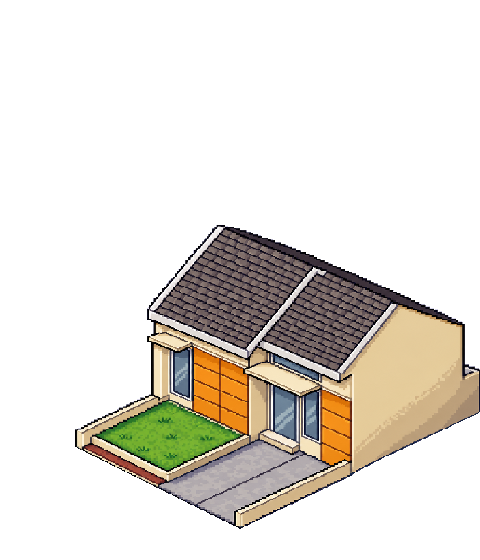
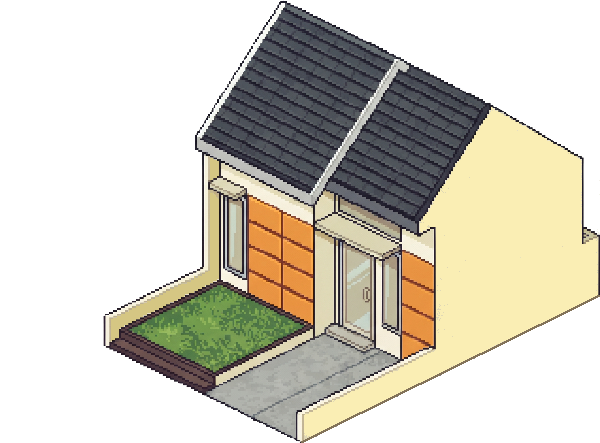
update terbaru

diff --git a/resources/js/my-ppmt/renderers/building-renderer.js b/resources/js/my-ppmt/renderers/building-renderer.js
@@ -14,28 +14,28 @@ window.MyPpmtModules.BuildingRenderer = (() => {
 
     const customSprites = new Map();
 
-    // Anchor pixel pada gambar PNG 480x560 (acuan awal 240x280 dikalikan 2x)
+    // Anchor pixel pada gambar PNG 600x443
     const SPRITE_SPECS = {
         '2x3-fl-left': {
             url: '/images/my-ppmt/house-2x3-fl-left.png',
-            anchorX: 240,
-            anchorY: 528,
-            leftX: 76,
-            rightX: 480
+            anchorX: 304,
+            anchorY: 441,
+            leftX: 0,
+            rightX: 490
         },
         '2x3-fl-right': {
             url: '/images/my-ppmt/house-2x3-fl-right.png',
-            anchorX: 240,
-            anchorY: 528,
-            leftX: 76,
-            rightX: 480
+            anchorX: 300,
+            anchorY: 440,
+            leftX: 0,
+            rightX: 496
         },
         '2x3-fr-left': {
             url: '/images/my-ppmt/house-2x3-fr-left.png',
-            anchorX: 240,
-            anchorY: 528,
-            leftX: 76,
-            rightX: 480
+            anchorX: 300,
+            anchorY: 439,
+            leftX: 0,
+            rightX: 496
         },
         '2x3-fr-right': {
             url: '/images/my-ppmt/house-2x3-fr-right.png',
@@ -43,6 +43,34 @@ window.MyPpmtModules.BuildingRenderer = (() => {
             anchorY: 528,
             leftX: 76,
             rightX: 480
+        },
+        '2x3-bl-left': {
+            url: '/images/my-ppmt/house-2x3-bl-left.png',
+            anchorX: 300,
+            anchorY: 439,
+            leftX: 4,
+            rightX: 508
+        },
+        '2x3-bl-right': {
+            url: '/images/my-ppmt/house-2x3-bl-right.png',
+            anchorX: 300,
+            anchorY: 439,
+            leftX: 4,
+            rightX: 508
+        },
+        '2x3-br-left': {
+            url: '/images/my-ppmt/house-2x3-br-left.png',
+            anchorX: 290,
+            anchorY: 443,
+            leftX: 4,
+            rightX: 508
+        },
+        '2x3-br-right': {
+            url: '/images/my-ppmt/house-2x3-br-right.png',
+            anchorX: 193,
+            anchorY: 440,
+            leftX: 4,
+            rightX: 508
         }
     };
 
@@ -121,6 +149,16 @@ window.MyPpmtModules.BuildingRenderer = (() => {
                 `2x3-fl-${carportSide}`,
                 '2x3-fr-left',
                 '2x3-fr-right'
+            ]);
+            return entry ? { ...entry, flipX: false } : null;
+        }
+
+        // Tampak belakang di orientasi ini memakai '2x3-br-right' dan '2x3-br-left'
+        if (effectiveFacing === 2 || effectiveFacing === 3) {
+            const entry = pickLoadedSprite([
+                `2x3-br-${carportSide}`,
+                '2x3-br-right',
+                '2x3-br-left'
             ]);
             return entry ? { ...entry, flipX: false } : null;
         }
@@ -282,7 +320,7 @@ window.MyPpmtModules.BuildingRenderer = (() => {
                 const wt0 = { x: t11.x + (t10.x - t11.x) * f0, y: t11.y + (t10.y - t11.y) * f0 + 2.5 };
                 const wt1 = { x: t11.x + (t10.x - t11.x) * f1, y: t11.y + (t10.y - t11.y) * f1 + 2.5 };
                 const wb0 = { x: mid11.x + (mid10.x - mid11.x) * f0, y: mid11.y + (mid10.y - mid11.y) * f0 - 2.0 };
-                const wb1 = { x: mid11.x + (mid10.x - mid11.x) * f1, y: mid11.y + (mid10.y - mid11.y) * f1 - 2.0 };
+                const wb1 = { x: mid11.x + (mid10.x - mid11.x) * f1, y: mid11.y + (mid10.y - mid11.x) * f1 - 2.0 };
                 drawIsoQuad(targetCtx, wt0, wt1, wb1, wb0, winGlass, '#ffffff', 0.65);
 
                 const dt0 = { x: mid11.x + (mid10.x - mid11.x) * f0, y: mid11.y + (mid10.y - mid11.y) * f0 + 2.5 };

diff --git a/resources/js/my-ppmt/ui/hud-controller.js b/resources/js/my-ppmt/ui/hud-controller.js
@@ -82,7 +82,7 @@ function mount({ canvas, minimapCanvas, units, state, apiClient, onCacheDirty, o
 
         function applyZoomAt(factor, pivotX = canvas.width / 2, pivotY = canvas.height / 2) {
             const prevZoom = state.zoom;
-            const nextZoom = Math.min(3.2, Math.max(0.45, prevZoom * factor));
+            const nextZoom = Math.min(5.0, Math.max(0.65, prevZoom * factor));
             if (nextZoom === prevZoom) return;
 
             const wx = (pivotX - canvas.width / 2 - state.camX) / prevZoom;

diff --git a/resources/js/my-ppmt/main.js b/resources/js/my-ppmt/main.js
@@ -56,7 +56,7 @@
             }).length;
         }
 
-        const staticCache = EnvRenderer.createStaticCacheManager(2.0);
+        const staticCache = EnvRenderer.createStaticCacheManager(3.0);
         
         window.addEventListener('my-ppmt:sprite-loaded', () => {
             staticCache.dirty = true;

diff --git a/database/seeders/PpmtCarportSideSeeder.php b/database/seeders/PpmtCarportSideSeeder.php
@@ -13,6 +13,22 @@ class PpmtCarportSideSeeder extends Seeder
         // 'left'  = carport di sisi kiri (dilihat dari dalam rumah menghadap keluar)
         // 'right' = carport di sisi kanan (dilihat dari dalam rumah menghadap keluar)
         $manualSides = [
+            'A-1' => 'right',
+            'A-2' => 'left',
+            'A-3' => 'right',
+            'A-4' => 'left',
+            'A-5' => 'right',
+            'A-6' => 'left',
+            'A-7' => 'right',
+            'A-8' => 'left',
+            'A-9' => 'right',
+            'A-10' => 'left',
+            'A-11' => 'right',
+            'A-12A' => 'left',
+            'A-12B' => 'right',
+            'A-14' => 'left',
+            'A-15' => 'right',
+            'A-16' => 'left',
             'A-17' => 'right',
             'A-18' => 'left',
             'A-19' => 'right',
@@ -22,6 +38,9 @@ class PpmtCarportSideSeeder extends Seeder
             'A-23' => 'right',
             'A-24' => 'left',
             'A-25' => 'right',
+            'B-8' => 'left',
+            'B-9' => 'right',
+            'B-10' => 'left',
             'B-16' => 'left',
             'B-17' => 'right',
             'B-18' => 'left',
